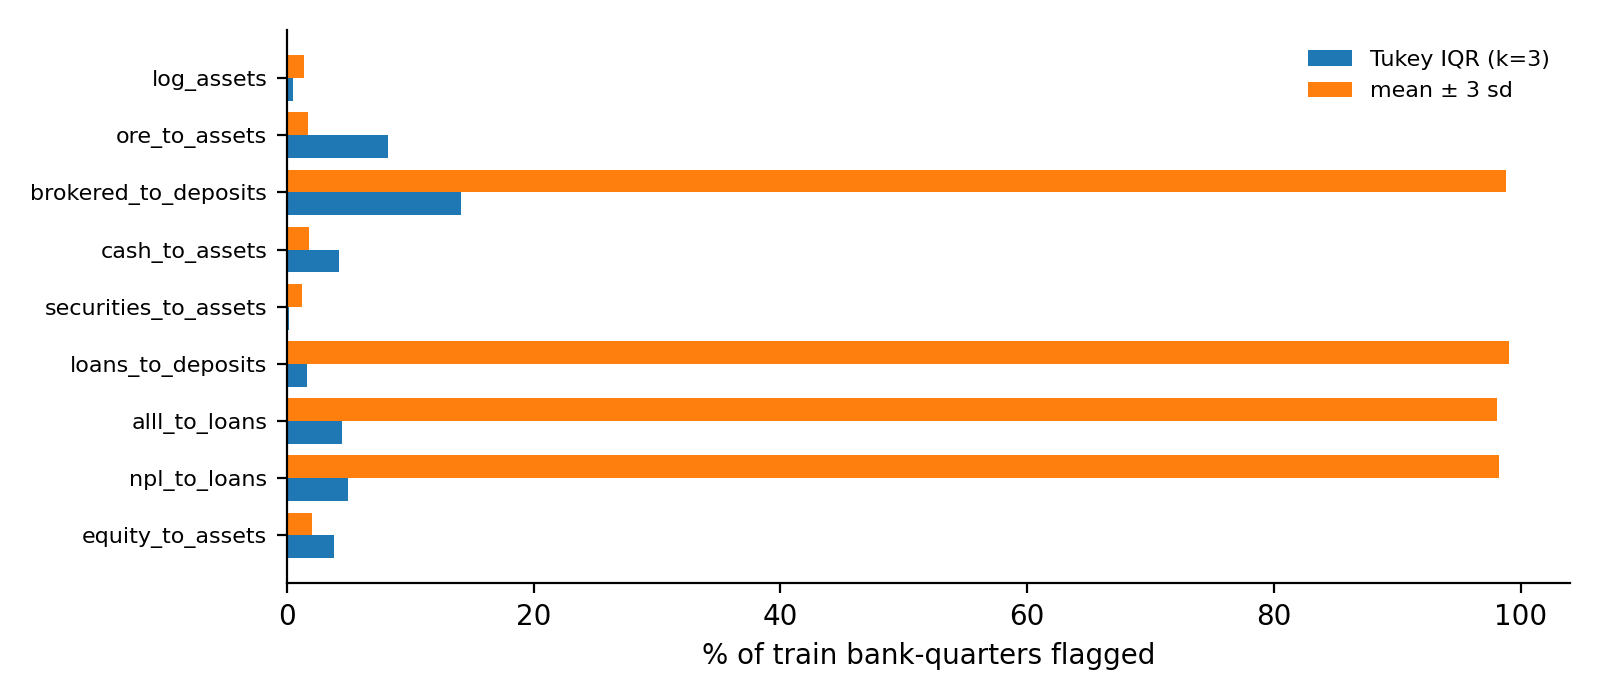
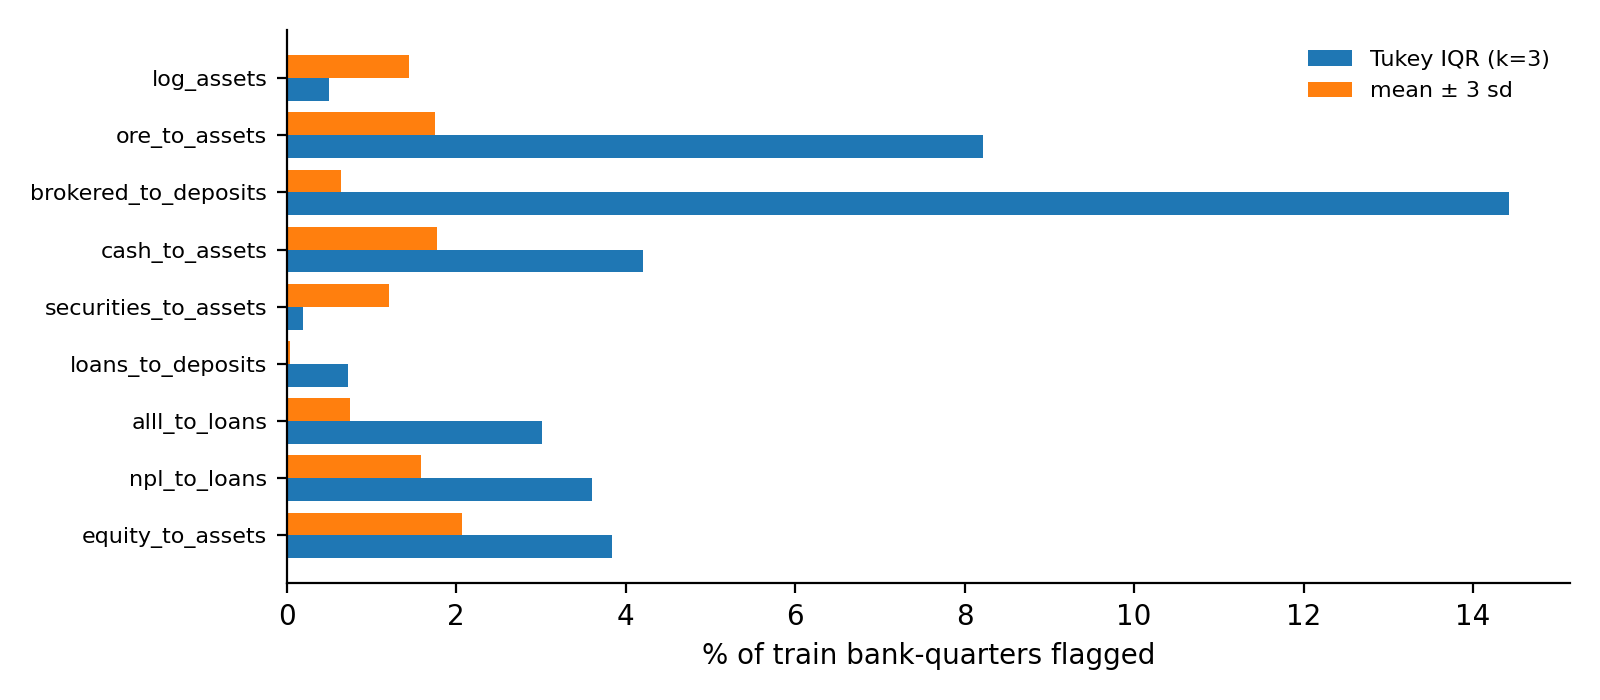
Regenerate data-quality audit with the NaN-ratio fix
Claude-Session: https://claude.ai/code/session_01MkzNPziaUhrrwFQCkxTrVU

diff --git a/reports/module2_data_quality.md b/reports/module2_data_quality.md
@@ -1,4 +1,4 @@
-# Module 2 - Data-quality audit (measured, generated 2026-11-06T07:30:54Z)
+# Module 2 - Data-quality audit (measured, generated 2026-11-06T07:49:32Z)
 
 All numbers below are computed by `python pipeline.py audit` on the data in `/content/data`. Fences, variance filters and LOF are fitted on the TRAIN window only.
 
@@ -89,12 +89,12 @@ Columns dropped: none
 | ratio | train_skew | train_kurtosis | train_iqr_flag_pct | train_gauss_flag_pct | test_iqr_flag_pct | fail_rate_pct_if_iqr_flagged | fail_rate_pct_if_not_flagged |
 |---|---|---|---|---|---|---|---|
 | equity_to_assets | 4.986 | 60.922 | 3.836 | 2.073 | 3.046 | 0.182 | 0.499 |
-| npl_to_loans | nan | nan | 4.961 | 98.264 | 2.662 | 7.496 | 0.121 |
-| alll_to_loans | nan | nan | 4.462 | 98.055 | 3.155 | 4.797 | 0.285 |
-| loans_to_deposits | nan | nan | 1.659 | 99.026 | 1.165 | 0.031 | 0.494 |
+| npl_to_loans | 9.454 | 207.756 | 3.602 | 1.585 | 1.066 | 10.599 | 0.109 |
+| alll_to_loans | 27.068 | 1,413.022 | 3.017 | 0.751 | 1.584 | 7.514 | 0.268 |
+| loans_to_deposits | 158.926 | 34,840.376 | 0.718 | 0.039 | 0.179 | 0.072 | 0.490 |
 | securities_to_assets | 1.102 | 1.682 | 0.192 | 1.203 | 0.081 | 0.000 | 0.487 |
 | cash_to_assets | 5.302 | 42.568 | 4.210 | 1.779 | 12.617 | 0.775 | 0.474 |
-| brokered_to_deposits | nan | nan | 14.124 | 98.818 | 14.652 | 1.700 | 0.287 |
+| brokered_to_deposits | 273.209 | 101,859.176 | 14.424 | 0.639 | 15.457 | 1.771 | 0.270 |
 | ore_to_assets | 8.034 | 109.265 | 8.219 | 1.748 | 3.242 | 4.200 | 0.154 |
 | log_assets | 0.948 | 3.001 | 0.497 | 1.441 | 1.194 | 0.208 | 0.488 |
 
